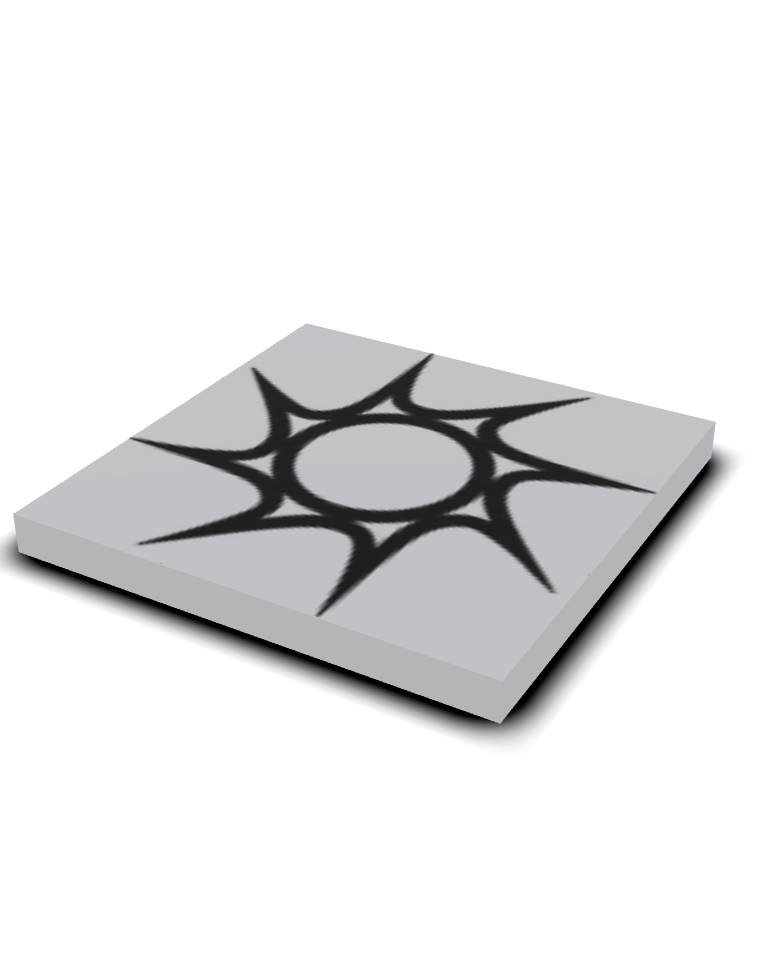
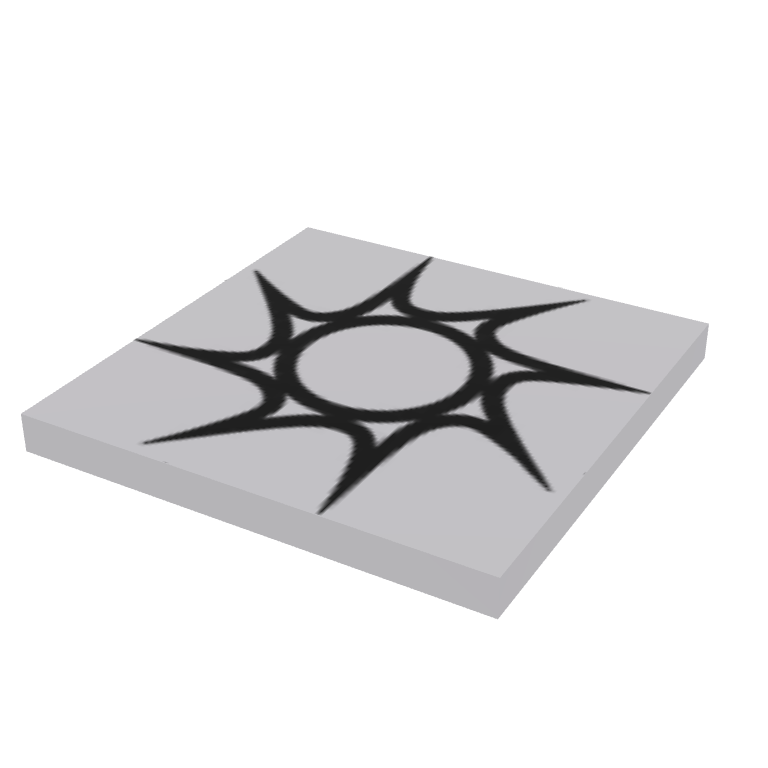
improved compatibility

Changed region(s): [[0.0, 0.2812, 0.9688, 0.8125], [0.0312, 0.5, 0.0938, 0.5312]]

diff --git a/public/styles/styles.css b/public/styles/styles.css
@@ -16,12 +16,12 @@ body {
 .hero {
 	height: 100vh;
 	display: flex;
-	flex-wrap: wrap;
 	gap: 5vw;
+	flex-wrap: wrap;
 	justify-content: center;
 	align-items: center;
 	background: #000;
-	padding: 25px !important;
+	padding: 50px !important;
 	border: none !important;
 }
 
@@ -63,7 +63,7 @@ body {
 /* section */
 
 section {
-	padding: 75px 15vw;
+	padding: 100px 15vw;
 	border-top: 1px solid #222;
 }
 
@@ -84,7 +84,7 @@ section {
 
 #projects-container {
 	display: grid;
-	grid-template-columns: repeat(auto-fill, minmax(max(20vw, 300px), 1fr));
+	grid-template-columns: repeat(auto-fill, minmax(350px, 1fr));
 	gap: 32px;
 }
 
@@ -162,4 +162,16 @@ section {
 .reveal.visible {
 	transform: translateY(0);
 	opacity: 1;
+}
+
+/* mobile */
+
+@media (max-width: 768px) {
+	#projects-container {
+		grid-template-columns: repeat(auto-fill, minmax(200px, 1fr));
+	}
+
+	section {
+		padding: 100px 5vw;
+	}
 }

diff --git a/public/index.html b/public/index.html
@@ -25,7 +25,7 @@
 				<h1 class="hero-header">spoxle</h1>
 				<p class="hero-subtitle">4 Years of experience building unique modular systems and frameworks</p>
 			</div>
-			<model-viewer class="hero-model" src="content/model.glb" poster="content/model-placeholder.webp" tone-mapping="neutral" loading="eager"></model-viewer>
+			<model-viewer class="hero-model" src="content/model.glb" poster="content/model-placeholder.png" tone-mapping="neutral" loading="eager"> </model-viewer>
 			<p id="scroll-tip">SCROLL</p>
 		</section>
 		<section id="projects">

diff --git a/public/src/model.js b/public/src/model.js
@@ -3,9 +3,9 @@ const modelViewer = document.querySelector("model-viewer");
 function updateModelView() {
 	const scrollY = window.scrollY;
 	const modelCenter = modelViewer.offsetTop + modelViewer.offsetHeight / 2;
-	const ratio = Math.min(scrollY / modelCenter, 1);
+	const ratio = scrollY / modelCenter;
 
-	modelViewer.cameraOrbit = `${ratio * 135 + 30}deg ${ratio * 30 + 60}deg 100m`;
+	modelViewer.cameraOrbit = `${ratio * 90 + 30}deg ${ratio * 30 + 60}deg 100m`;
 }
 
 export function initModel() {
